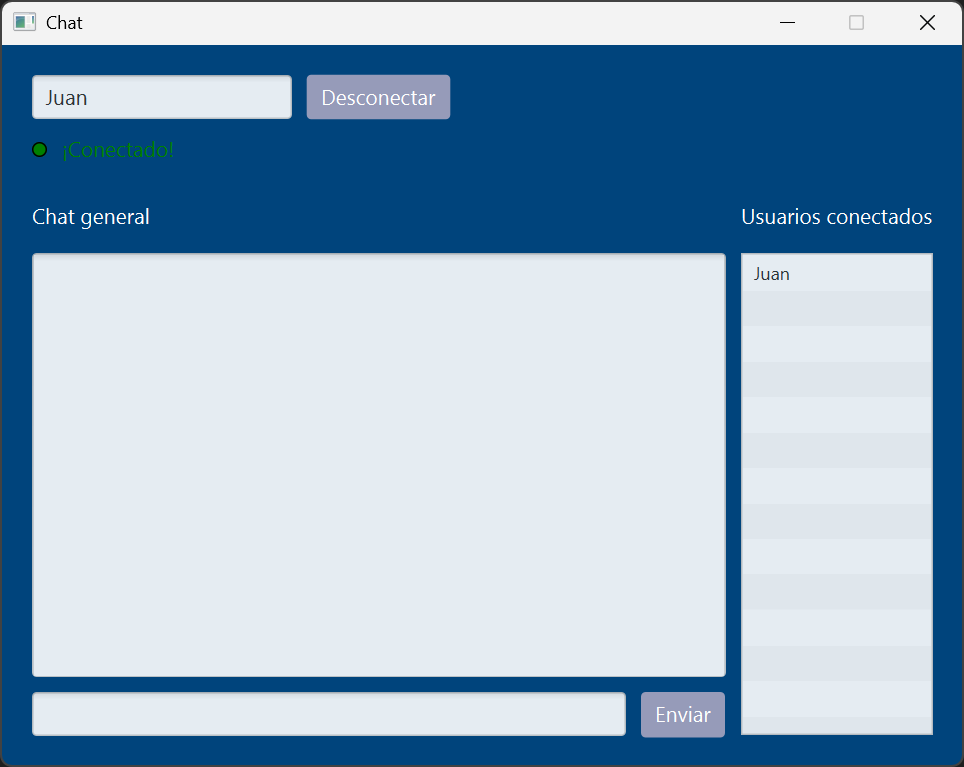
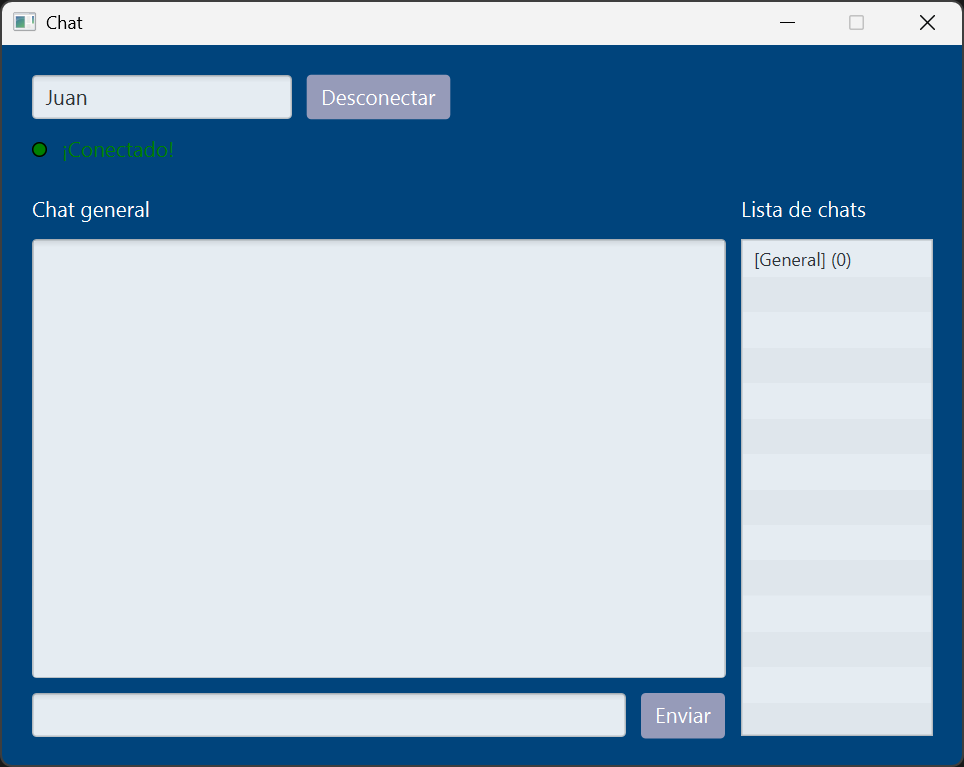
Imágenes de la interfaz actualizadas

Changed region(s): [[0.0311, 0.2699, 0.9647, 0.3598], [0.6846, 0.9296, 0.7158, 0.9596]]

diff --git a/README.MD b/README.MD
@@ -25,7 +25,9 @@ Esta es una aplicación cliente-servidor en la que el servidor permanece a la es
     <img src="img/chat1.png" alt="Imagen de inicio">
     <img src="img/chat2.png" alt="Sesión iniciada">
     <img src="img/chat3.png" alt="Mensajes">
-    <img src="img/chat4.png" alt="Mensaje privado">
-    <img src="img/chat5.png" alt="Otro cliente con el mensaje privado">
-    <img src="img/chat6.png" alt="Consola del servidor">
+    <img src="img/chat4.png" alt="Chat privado">
+    <img src="img/chat5.png" alt="Enviar un mensaje privado">
+    <img src="img/chat6.png" alt="Recibir un mensaje privado">
+    <img src="img/chat7.png" alt="Abrir un mensaje privado">
+    <img src="img/chat8.png" alt="Consola del servidor">
 </p>
